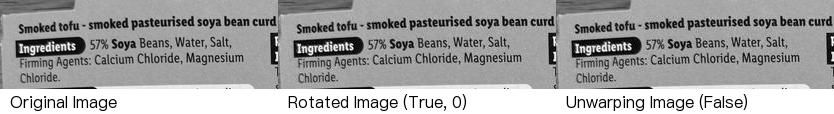
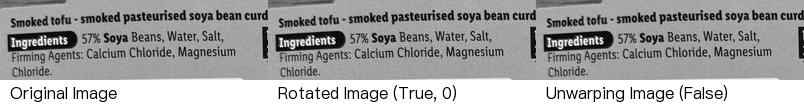
update main - fixed

diff --git a/main.py b/main.py
@@ -11,6 +11,9 @@ import ttkbootstrap as ttk # for modern GUI
 from tkinter import filedialog
 from paddleocr import PaddleOCR
 import json
+import string
+import unicodedata
+import Levenshtein
 
 start_corner = None
 end_corner = None
@@ -236,7 +239,7 @@ def perform_ocr_single(img_path):
     base = os.path.splitext(os.path.basename(img_path))[0] # e.g. IMG_8590_cropped
     # create correct extension
     json_path = os.path.join("output", f"{base}.json") # for json e.g. IMG_8590_cropped_res.json
-    txt_path = os.path.join("output", f"{base}.txt") # IMG_8590_cropped.txt
+    txt_path = os.path.abspath(os.path.join("output", f"{base}.txt")) # IMG_8590_cropped.txt
     for res in result:
         res.print()
         res.save_to_json(json_path)
@@ -249,7 +252,10 @@ def perform_ocr_single(img_path):
         for line in text_lines:
             f.write(line + "\n")
     print(f"Finished performing OCR on {img_path}.")
+    print("txt path", txt_path)
+    return txt_path
 
+# batch process ocr
 
 # def perform_ocr_multiple(img_path): #folder
 #     ocr = PaddleOCR(use_doc_orientation_classify=True,  #create ocr object
@@ -277,14 +283,126 @@ def perform_ocr_single(img_path):
 #                 f.write(line + "\n")
 #     print("ORC Finished.")
 
-def save_and_ocr():
+
+test_gt_filepath = 'C:\\Users\\veron\\PycharmProjects\\plantscan\\annotation\\IMG_7476_cropped.txt' # temporarily I use this path for testing
+def save_crop_and_start_ocr():
+    # 1. save cropped  image
     cropped_img_path = save_cropped_img()
+    print(f"Saved cropped image to {cropped_img_path}.")
     if cropped_img_path is None:
         return
+    # 2. extract text
     # perform_ocr_multiple(cropped_folder) # for multiple images
-    perform_ocr_single(cropped_img_path) # for single img
+    extracted_txt = perform_ocr_single(cropped_img_path) # for single img
+    print(f"extracted text {extracted_txt}.")
+    if extracted_txt is not None:
+        #/////////////wrong
+        # test = load_words(extracted_txt)
+        # cleaned_test = count_word_and_char(test) # this does not work because load_words returns a list not a file path and count_word_and_char() expects a path not a list
+        # print(f"test {test}")
+        # print(f"cleaned_test {cleaned_test}")
+        #//////////
+        cleaned_extracted_test = count_word_and_char(extracted_txt) #orc extracted text is passed in
+        extracted_text_before_cleaning = load_words(extracted_txt)
+        print(f"extracted text before cleaning: {extracted_text_before_cleaning}")
+        print(f"cleaned_extracted text: {cleaned_extracted_test}")
+        load_cleaned_extracted = load_words(cleaned_extracted_test)
+
+        not_cleaned_gt = load_words(test_gt_filepath) # display not cleaned gt file
+        print(f"not_cleaned_gt: {not_cleaned_gt}")
+        cleaned_gt = count_word_and_char(test_gt_filepath) # cleaning
+        load_cleaned_gt = load_words(cleaned_gt) # load cleaned gt file
+        print(f"cleaned_gt {load_cleaned_gt}")
+        # not_cleaned_gt = load_words(test_gt_filepath) # gt test file before cleaning
+        # cleaned_gt_words = count_word_and_char(test_gt_filepath)
+        # cleaned_ocr_words = count_word_and_char(extracted_txt)
+        # gt_words = load_words(cleaned_gt_words)
+        # ocr_words = load_words(cleaned_ocr_words)
+        # edit_dist = Levenshtein.distance(gt_words, ocr_words)
+        # print(f"test_gt_filepath: {test_gt_filepath}")
+        # print(f"not cleaned gt: {not_cleaned_gt}") # display not cleaned gt test file's text
+        # print("gt words after cleaning", gt_words)
+        # # print(f"ocr words before cleaning: {cleaned_ocr_words}")
+        # # print("ocr words after cleaning", ocr_words)
+        # print(f"edit_distance = {edit_dist}")
+        # Lev_ratio = Levenshtein.ratio(gt_words, ocr_words)
+        #
+        # ac = 1 - edit_dist
+        # print(f"Levenshtein ratio = {Lev_ratio}")
+        # print(f"ac = {ac}")
+        # WER =edit_dist/len(gt_words)*100
+        # print(f"WER = {WER}")
+
+    return extracted_txt # extracted txt path
+
+# print("extracted_txt: ",extracted_txt)
+def clean_line(line):
+    line = line.strip()
+    line = unicodedata.normalize("NFKC", line)  # remove unicode chars
+    translator = str.maketrans(string.punctuation, " " * len(string.punctuation))  # replace punct with space
+    line = line.translate(translator)  # apply spaces
+    #remove numbers
+    empty_string = ""
+    for char in line:
+        if not char.isdigit():
+            empty_string += char
+    line = empty_string
+    return line
+
+#new folder for cleaned files
+cleaned_folder_path = 'C:\\Users\\veron\\PycharmProjects\\plantscan\\cleaned_folder'
+
+def count_word_and_char(text_file):
+    """
+    Cleans the text, counts the number of words and chars in a text file.
+    :param text_file:
+    :return: cleaned text
+    """
+    word_count = 0
+    char_count = 0
+    cleaned_lines =[]
+    if not os.path.exists(cleaned_folder_path):
+        os.makedirs(cleaned_folder_path)
+    origin = os.path.basename(text_file)
+    without_extension = os.path.splitext(origin)[0]
+    cleaned_filename = f"{without_extension}_cleaned.txt"
+    cleaned_path = os.path.join(cleaned_folder_path, cleaned_filename)
+    with open(text_file, "r", encoding="utf-8") as f:
+        for line in f:
+            cleaned_line = clean_line(line)
+            cleaned_lines.append(cleaned_line)
+            words = cleaned_line.split()
+            word_count += len(words)
+            for word in words:
+                char_count += len(word)
+            # print(cleaned_line)
+    with open(cleaned_path, "w", encoding="utf-8") as out:
+        out.write("\n".join(cleaned_lines))
+    print(f"cleaned text was saved to {cleaned_path}.")
+    print(f"There are {word_count} words and {char_count} chars in the file {text_file}\n")
+    return cleaned_path
 
 
+# def count_w_char(text_file):
+#     word_count = 0
+#     char_count = 0
+#     with open(text_file, "r", encoding="utf-8") as f: #open file passed into the function
+#         for line in f: #go through the lines of the text file
+#             cleaned_line = clean_line(line) # calls clean_line function to remove numbers, special chars, and uncode chars
+#             words = cleaned_line.split() # break up line to words
+#             word_count += len(words) # the number of words on a line
+#             for word in words: #go through all words in words in line
+#                 char_count += len(word)  # count chars by getting the length of a word and adding all length to char_count
+#             print(cleaned_line) # print the cleaned line of text
+#         print(f"There are {word_count} words and {char_count} chars in the file {text_file}\n")
+
+
+def load_words(txt_input_file):
+    """Loads a text file and return a list of words.
+    :parameter txt_input_file: Path to the text file.
+    :return: List of words."""
+    with open(txt_input_file, "r", encoding="utf-8") as f:
+        return f.read().split() #return words
 
 # ---------- CANVAS ------------
 canvas = tk.Canvas(gui_window, width=width, height=height) # creating a canvas to display the image on
@@ -292,7 +410,7 @@ canvas.bind("<Button-1>", on_click)
 canvas.bind("<B1-Motion>", drag_rect)
 canvas.bind("<ButtonRelease-1>", on_release)
 # save_btn = tk.Button(gui_window, text="Save Crop", command=save_cropped_img)
-save_btn = tk.Button(gui_window, text="Save Crop", command=save_and_ocr)
+save_btn = tk.Button(gui_window, text="Save Crop", command=save_crop_and_start_ocr)
 save_btn.pack()
 canvas.pack()
 gui_window.mainloop() # displaying the window & listen for events
